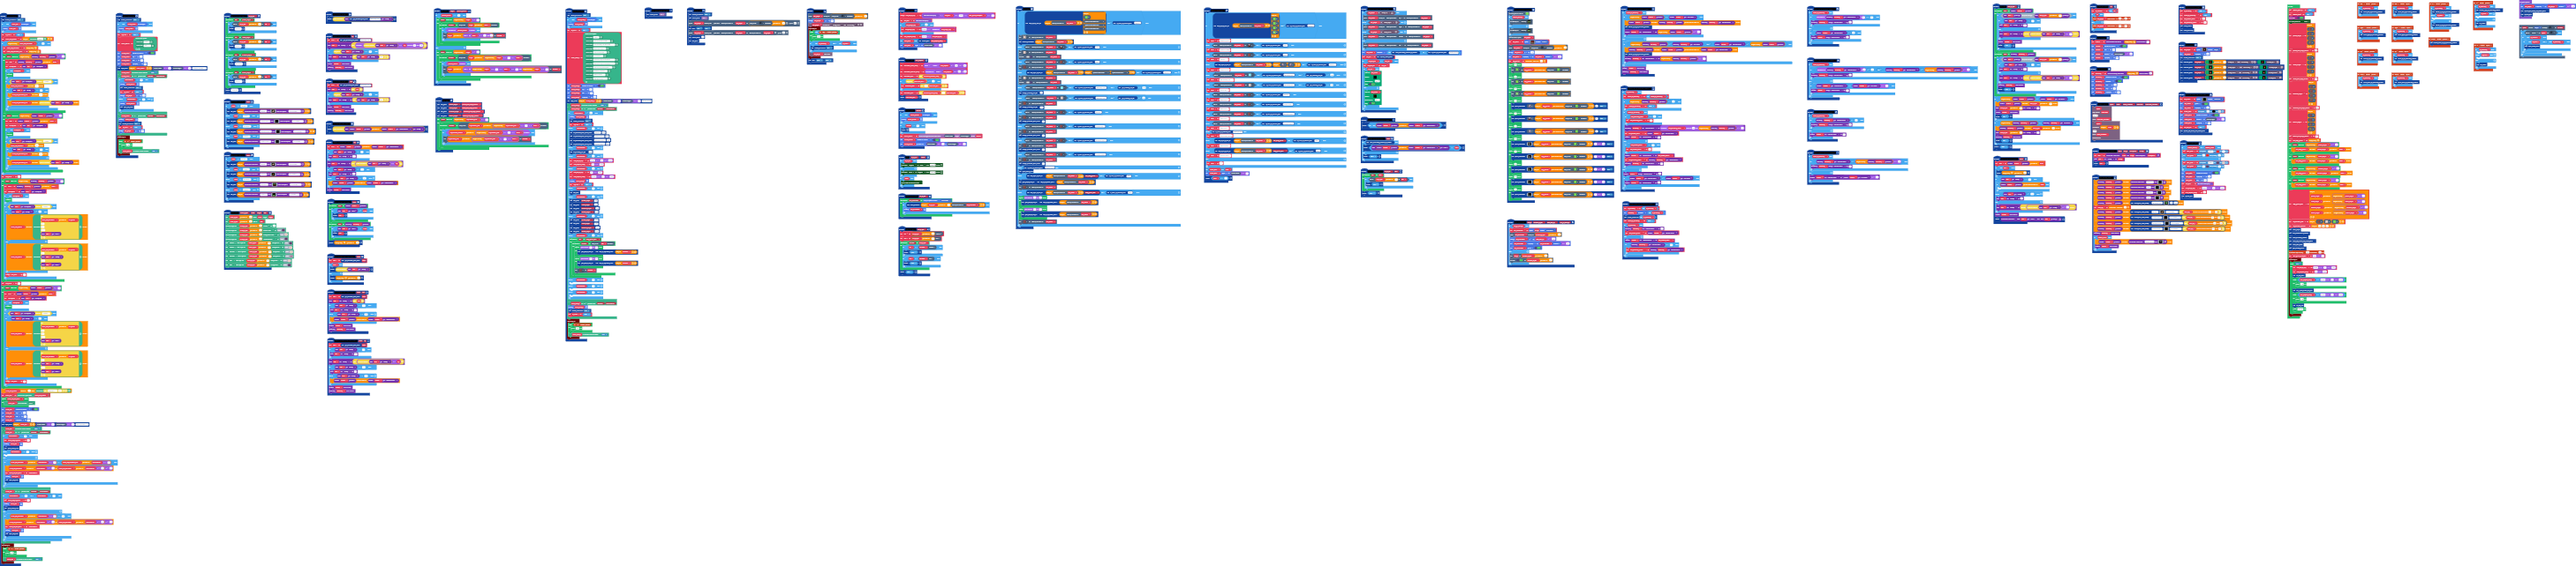
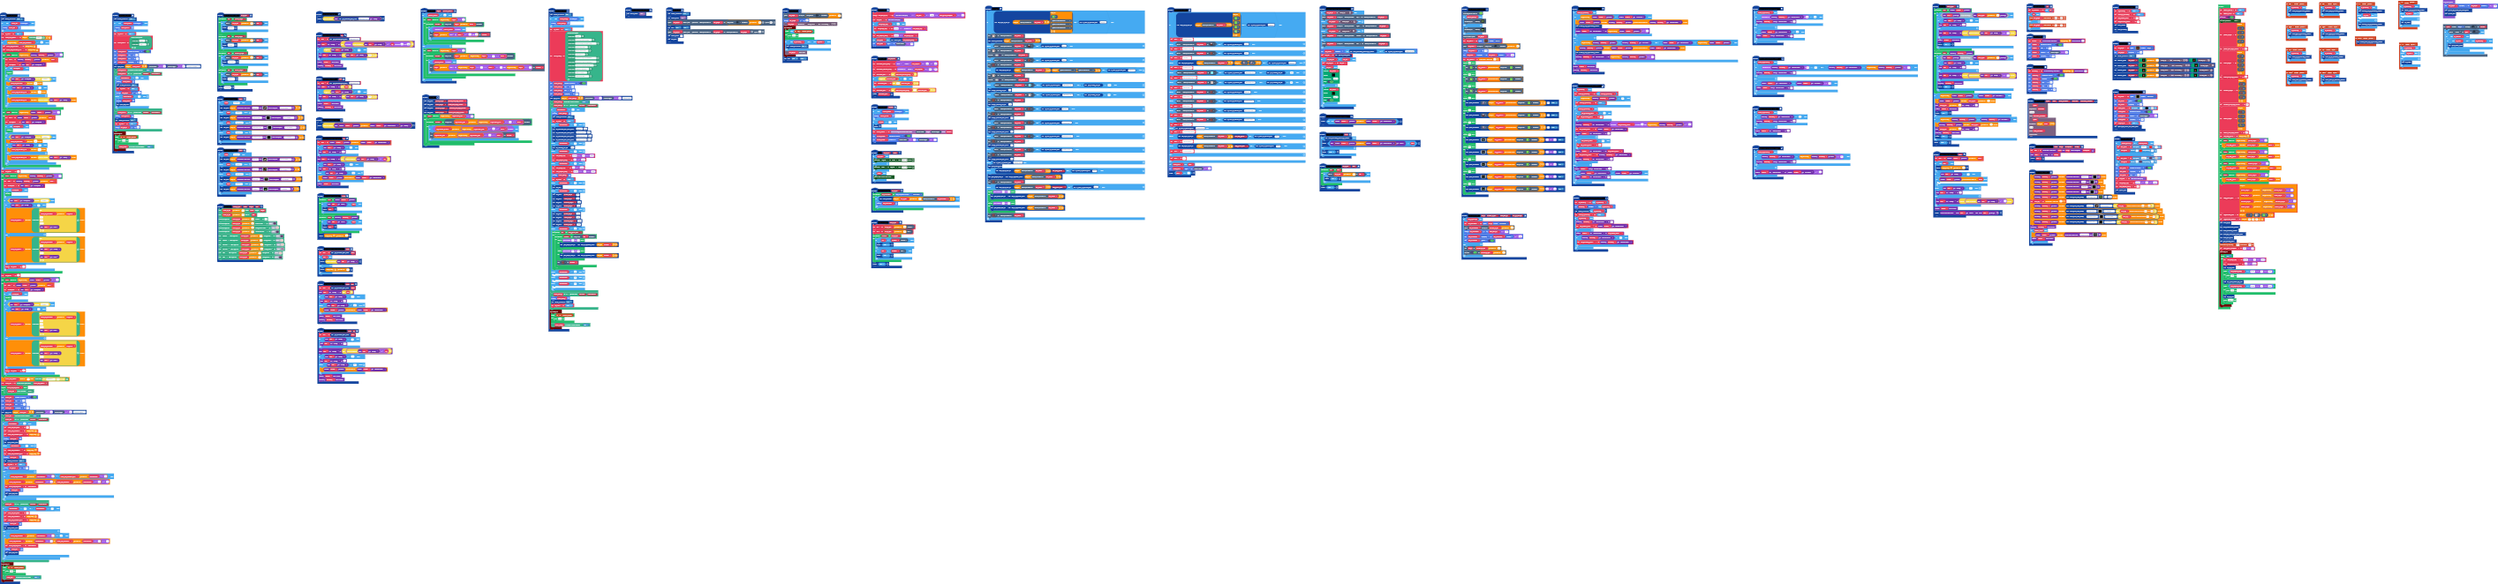
Sell button leaves menu

Changed region(s): [[0.0, 0.0, 1.0, 0.9969]]

diff --git a/main.ts b/main.ts
@@ -398,10 +398,17 @@ function open_sell_menu () {
     menu_sell.onButtonPressed(controller.A, function (selection, selectedIndex) {
         if (selectedIndex == 0) {
             menu_sell_last_index = 0
+            menu_sell_selections = []
+            menu_sell_selections_max = []
             menu_sell.destroy()
             open_action_menu()
         } else if (selectedIndex == 1) {
-        	
+            menu_sell_selections = []
+            menu_sell_selections_max = []
+            menu_sell.destroy()
+            enable_movement(true)
+            in_menu = false
+            the_player.y += 16
         } else {
             if (menu_sell_selections[selectedIndex - 2] < menu_sell_selections_max[selectedIndex - 2]) {
                 menu_sell_selections[selectedIndex - 2] = menu_sell_selections[selectedIndex - 2] + 1
@@ -414,6 +421,8 @@ function open_sell_menu () {
     menu_sell.onButtonPressed(controller.B, function (selection, selectedIndex) {
         if (selectedIndex == 0 || selectedIndex == 1) {
             menu_sell_last_index = 0
+            menu_sell_selections = []
+            menu_sell_selections_max = []
             menu_sell.destroy()
             open_action_menu()
         } else {
